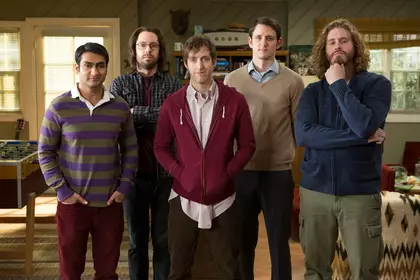
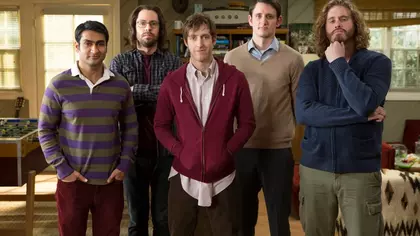
fix: article images

diff --git a/src/routes/changelog/[id]/styles.module.css b/src/routes/changelog/[id]/styles.module.css
@@ -75,12 +75,12 @@
 	& img {
 		display: block;
 		margin: 0 auto;
-		width: 375px;
-		height: 230px;
-		@media (min-width: 768px) {
+		width: 100%;
+		/* height: 230px; */
+		/* @media (min-width: 768px) {
 			width: 680px;
 			height: 453px;
-		}
+		} */
 	}
 	& blockquote {
 		margin: 0 0 0 -20px;
